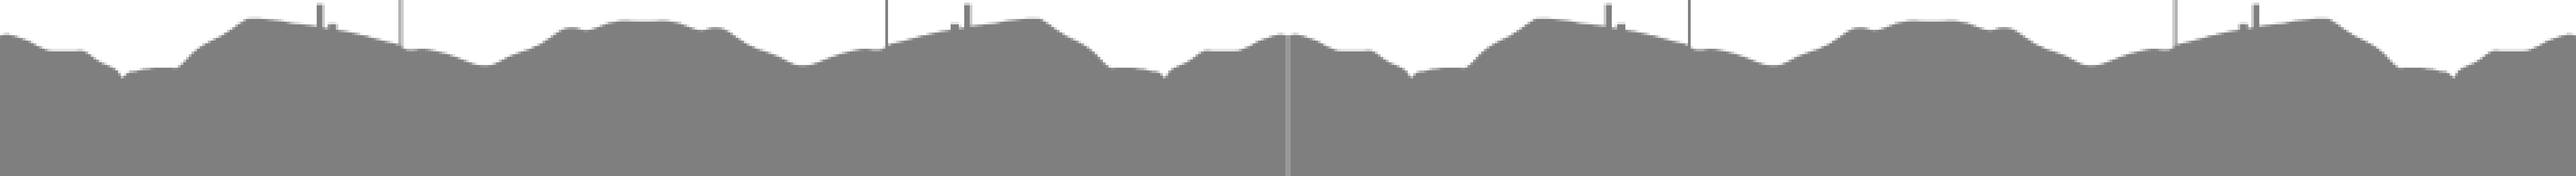
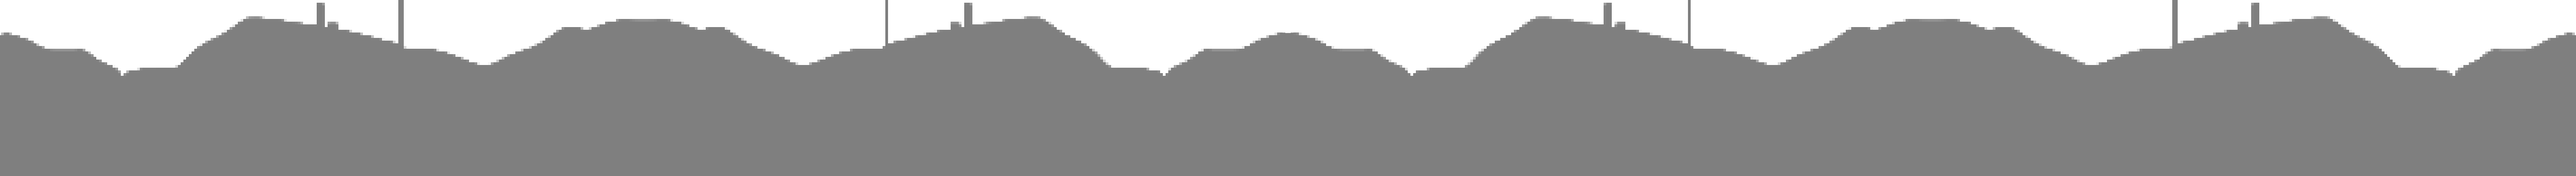
World moves! :)

diff --git a/main.js b/main.js
@@ -10,10 +10,17 @@ const images = [
   'skySlice',
 ]
 
+const gameDimensions = {
+  width: 1024,
+  height: 768,
+}
+
 const state = {
   world: {
     background: {
-      x: 0
+      imageWidth: 4734,
+      tileWidth: gameDimensions.width,
+      x: gameDimensions.width * -1
     },
   },
   player: {
@@ -44,6 +51,9 @@ const updateState = () => {
 
   // World moves.
   state.world.background.x += state.player.speed
+  if (state.world.background.x > gameDimensions.width / state.world.background.imageWidth) {
+    state.world.background.x = gameDimensions.width * -1
+  }
 }
 
 playground({
